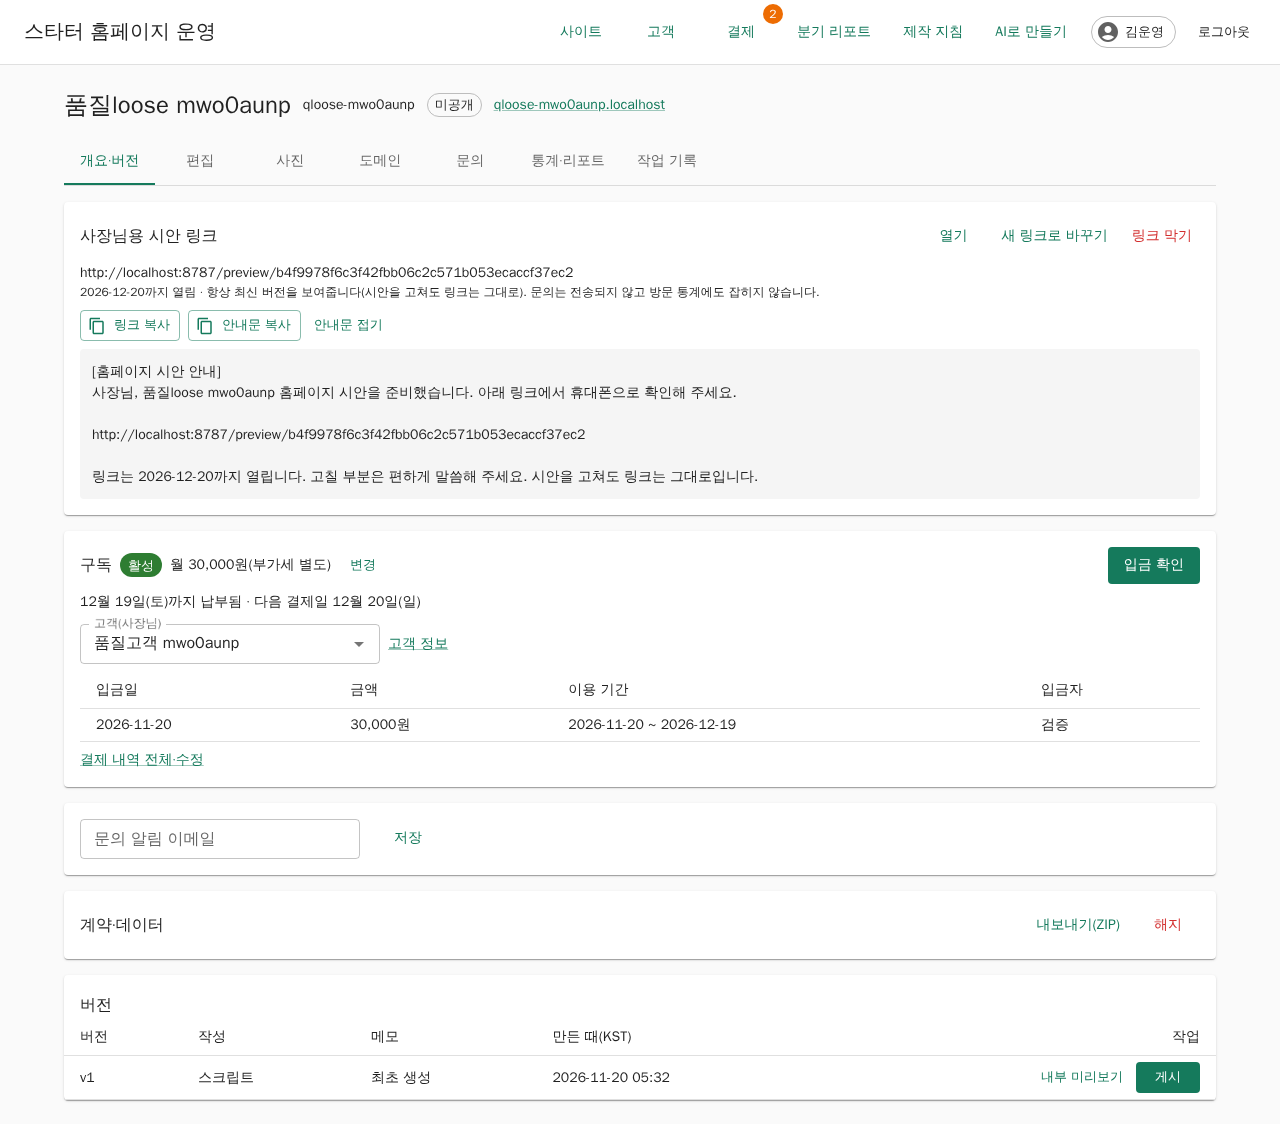
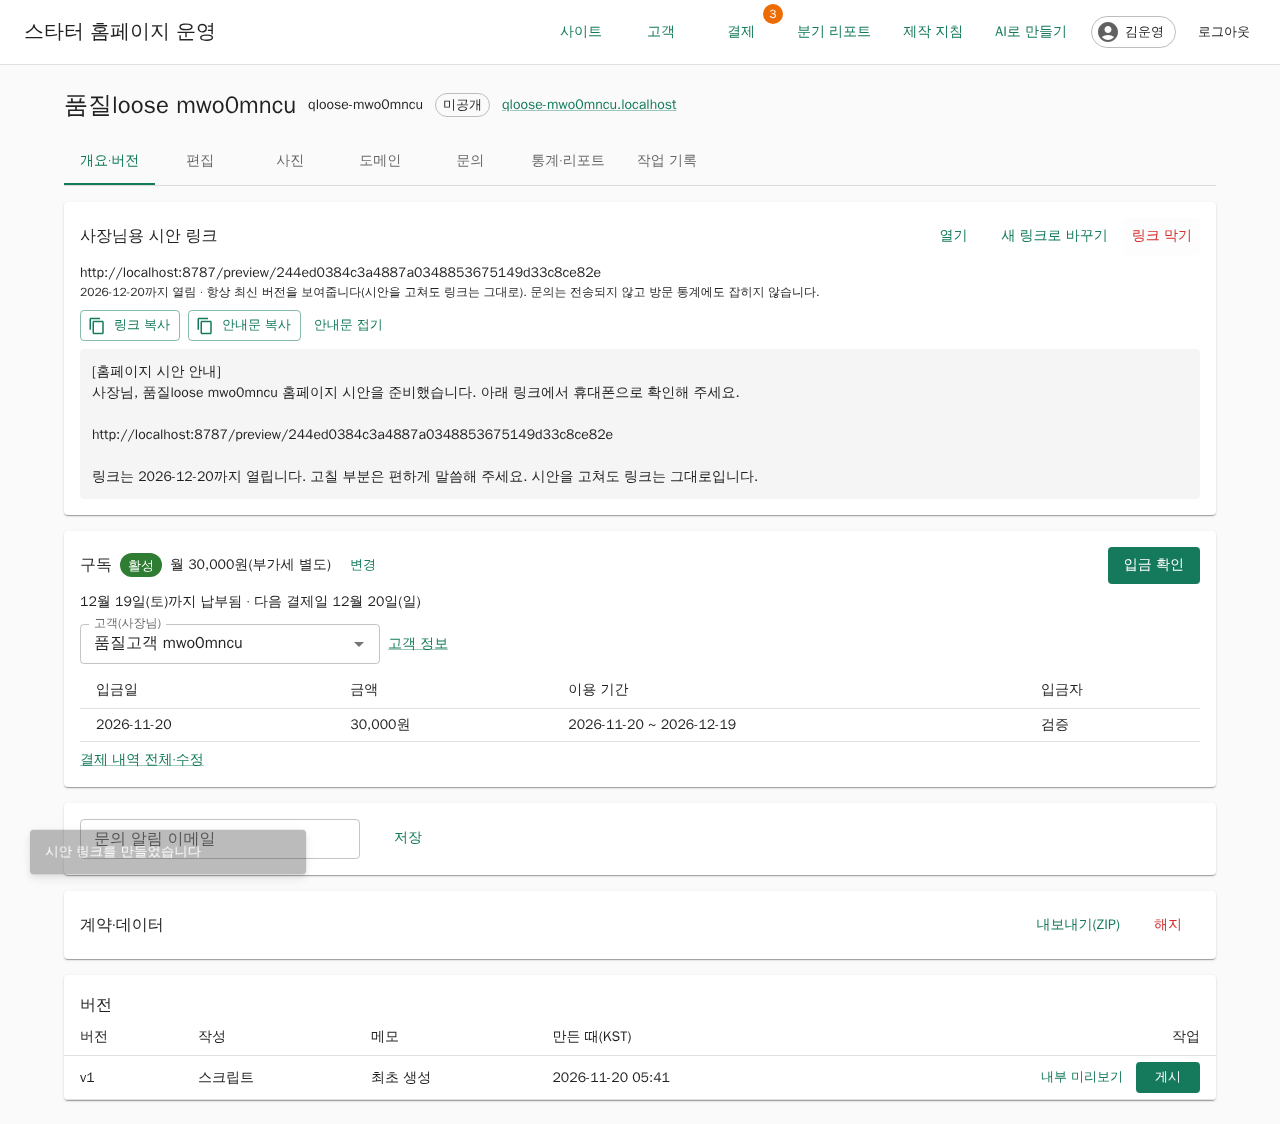
fix(console): today's list puts urgent work first; customer linking is housekeeping
Round 2 of the quality loop (evidence/m4-quality/po-round2.md): the product owner scored
4.75 again with every task done, so the loop stops with all targets met. Sites without a
customer move out of the day's count into a "정리할 것" strip; the demo seed's operator
suspension carries a reason like the console now requires.

Claude-Session: https://claude.ai/code/session_01Uc2o5SHdK7QwPtV2EwnCqy

diff --git a/apps/console/src/pages/TodayPanel.tsx b/apps/console/src/pages/TodayPanel.tsx
@@ -75,7 +75,9 @@ export function TodayPanel() {
   if (!today.data) return null;
   const { billing, manualSuspensions, domains, unlinked } = today.data;
   const drafts = today.data.drafts.filter((d) => d.draft !== "billed"); // billed drafts are under 결제
-  const total = billing.length + manualSuspensions.length + drafts.length + domains.length + unlinked.length;
+  // Sections run most urgent first (money and sites that are down, then what waits on the
+  // owner). Linking customers is housekeeping: listed below, not counted as today's work.
+  const total = billing.length + manualSuspensions.length + drafts.length + domains.length;
   return (
     <Stack spacing={1} data-testid="today">
       <Typography variant="h6" sx={{ fontWeight: 700 }}>
@@ -129,13 +131,18 @@ export function TodayPanel() {
               />
             </Section>
           ) : null}
-          {unlinked.length ? (
-            <Section title="고객 미연결" count={unlinked.length} testid="today-unlinked">
-              <List rows={unlinked} render={(row) => <Item key={row.id} site={row} note="연락할 사장님이 연결되지 않음" />} />
-            </Section>
-          ) : null}
         </Box>
       )}
+      {unlinked.length ? (
+        <Paper variant="outlined" sx={{ p: 1.5, bgcolor: "grey.50" }} data-testid="today-unlinked">
+          <Typography variant="body2" sx={{ fontWeight: 700, mb: 0.5 }}>
+            정리할 것 · 고객(사장님)이 연결되지 않은 사이트 {unlinked.length}곳
+          </Typography>
+          <Stack direction="row" spacing={1.5} useFlexGap sx={{ flexWrap: "wrap" }}>
+            <List rows={unlinked} render={(row) => <Item key={row.id} site={row} note="" />} />
+          </Stack>
+        </Paper>
+      ) : null}
     </Stack>
   );
 }

diff --git a/evidence/m4-quality/po-round2.md b/evidence/m4-quality/po-round2.md
@@ -1,0 +1,31 @@
+# 운영자 하루 업무 사용성 — 2회차 (프로덕트 오너 에이전트, 화면만 사용)
+
+모든 과제 성공, 평균 4.75 (기준선 4.4, 1회차 4.75). 막힘 없음. 스크린샷: `po-round2/`.
+
+| 과제 | 결과 | 클릭 | 점수 (1회차) | 이유 |
+|---|---|---|---|---|
+| T1 오늘 할 일 | 성공 | 0~1 | 4 (5) | 다 보이지만 카드끼리 급한 순서가 없고, 고객 미연결 같은 정리성 작업이 같은 무게로 세어짐 |
+| T2 노원 피아노 입금 | 성공 | 5 | 5 (4) | 이용 기간이 연체 기간에 이어 자동으로 잡힘. 알림에 납부 기간 |
+| T3 시안 안내문 | 성공 | 4 | 5 (5) | 안내문 보기·복사, 모바일 시안 띠 |
+| T4 첫 화면 제목 변경 | 성공 | 3 | 5 (5) | "시안 링크에도 바로 반영" 알림, 같은 링크에서 확인 |
+| T5 도메인 연결 | 성공 | 4 | 5 (5) | CNAME 표, 안내문(포워딩 포함), 첫 화면 "도메인 연결" 카드 |
+| T6 깔끔 사무실 청소 | 성공 | 1~2 | 5 (5) | "20일 연체로 공개 중단" |
+| T7 AI 도구 안내 | 성공 | 1 | 5 (5) | "AI로 만들기" 한 페이지에 주소·순서·예시 |
+| T8 입금 합계·김철수 | 성공 | 4 | 4 (4) | 합계는 바로 보임. 같은 연락처의 사이트 2곳이 고객에 연결돼 있지 않아 판단 필요(고객 화면에 연결 제안은 보임) |
+
+## 발견한 문제
+
+| 심각도 | 위치 | 문제 | 기대한 동작 |
+|---|---|---|---|
+| 불편 | 첫 화면 오늘 할 일 | 급한 순서 없음, 정리성 작업(고객 미연결)이 9건에 함께 세어짐 | 급한 일 먼저, 정리성 작업은 따로 |
+| 불편 | 고객 상세, 고객 미연결 카드 | 시드의 미연결 사이트 2곳. 첫 화면 카드엔 "같은 연락처 고객 있음" 힌트 없음 | 첫 화면에서도 연결 제안 |
+| 사소 | 운영자 공개 정지 | "사유 없음" | 정지할 때 사유 입력 |
+| 사소 | 시안 안내문 | 고객 미연결이면 보낼 연락처가 옆에 없음 | 받는 사람 연락처 표시 |
+| 사소 | 중단된 사이트 입금 요청 | 이용 기간이 오늘부터 잡혀 지난 기간과 이어지지 않음. 연체(노원)는 이어서 잡힘 | 규칙 안내(정책 여부 확인 못 함) |
+| 사소 | 입금 확인 알림 | 공개 상태는 말하지 않음 | "공개 유지 중" 함께 |
+
+## 처리 메모 (개발)
+- 루프 종료: 목표(성공 100%, 평균 4.5 이상)를 1·2회차 연속 넘김.
+- 반영: 오늘 할 일의 고객 미연결을 "정리할 것"으로 분리하고 할 일 수에서 뺌(섹션은 결제 → 운영자 정지 → 공개 전 → 도메인 순). 시드 데이터의 운영자 정지에 사유를 넣음. 콘솔 정지는 2회차부터 사유 필수였고, "사유 없음"은 API로 만든 시드 때문이었다.
+- 중단 뒤 이용 기간: 4-B 정책대로다. 연체(유예 중)는 지난 기간에 이어 잡고, 공개가 중단된 뒤에는 입금일부터 새 기간을 잡는다(비는 기간을 받지 않음). 화면 안내 문구는 PRD 요금제 미결 사항과 함께 정한다.
+- 시안 안내문 옆 연락처, 첫 화면 카드의 연결 제안: 사이트 개요의 고객 미연결 경고에 같은 연락처 고객 제안이 이미 있어 이번에는 두지 않음.

diff --git a/evidence/m4-quality/scorecard.md b/evidence/m4-quality/scorecard.md
@@ -8,12 +8,12 @@
 
 | 영역 | 지표 | 목표 | 기준선 | 1회차 | 2회차 |
 | --- | --- | --- | --- | --- | --- |
-| 운영자(콘솔) | 하루 업무 T1~T8 성공률, 평균 점수 | 100%, 4.5 이상 | 100%, 4.4 | 100%, 4.75 | |
+| 운영자(콘솔) | 하루 업무 T1~T8 성공률, 평균 점수 | 100%, 4.5 이상 | 100%, 4.4 | 100%, 4.75 | 100%, 4.75 |
 | 운영자(AI 제작) | 검증 통과 시안까지 시간·비용 | M2(3분 17초, $1.02)보다 나쁘지 않게 | 2분 33초, 17턴, $0.87 | (도구 변화 없음, 재측정 안 함) | (같음) |
 | 방문자(공개 사이트) | Lighthouse 모바일 성능 / 접근성 / SEO, LCP | 95 이상 / 100 / 95 이상, 2.0초 이하 | 레슨 99 / 100 / 92, 2.26초. 출장 99 / 100 / 92, 1.96초 | 레슨 100 / 100 / 100, 1.13초. 출장 100 / 100 / 100, 1.88초. 모범 사례 96 → 100 | (렌더러 변화 없음) |
 | 사장님(시안 링크) | Lighthouse 성능 / 접근성 (검색 차단이라 SEO 제외) | 95 이상 / 100 | 99 / 100, LCP 1.97초 | 99 / 100, LCP 2.04초 | (같음) |
-| 콘솔 성능 | 첫 화면 JS(gzip), 목록 표시 | 100KB 이하 → 기준선의 절반(180KB) 이하(아래 참고) | 361KB, 0.14초. 사이트 상세 369KB, 고객 상세 369KB | 179KB, 0.14초. 사이트 상세 237KB, 고객 상세 207KB | |
-| 서비스 품질 | verify-all | 전부 통과 | 454/454 (4-E 종료 시) | 481/481 | |
+| 콘솔 성능 | 첫 화면 JS(gzip), 목록 표시 | 100KB 이하 → 기준선의 절반(180KB) 이하(아래 참고) | 361KB, 0.14초. 사이트 상세 369KB, 고객 상세 369KB | 179KB, 0.14초. 사이트 상세 237KB, 고객 상세 207KB | 180KB(입금 요청 안내문 등) |
+| 서비스 품질 | verify-all | 전부 통과 | 454/454 (4-E 종료 시) | 481/481 | 488/488 |
 
 ## 기준선에서 찾은 것
 
@@ -63,3 +63,11 @@
 - 입금 확인 알림에 상호·납부 기간·재공개 여부.
 - 초안 저장 알림에 "사장님 시안 링크에도 바로 반영".
 - 부가세 표기는 PRD 미결이라 그대로 둠(`po-round1.md` 메모).
+
+## 결론
+
+목표를 모두 넘겨 루프를 마친다(1·2회차 연속 PO 4.75, 성공 100%). 2회차 PO 지적 중 오늘 할 일의 정렬·정리성 작업 분리는 반영했다. 시드의 정지 사유는 데이터 문제라 시드에 사유를 넣었다. 남은 지적은 `po-round2.md` 처리 메모에 판단과 함께 남겼다.
+
+남은 결정(사람이 정할 것):
+- 받을 금액의 부가세 표기(공급가 30,000원인지 33,000원인지): PRD 미결 사항.
+- 공개 중단 뒤 입금의 이용 기간 규칙(지금은 입금일부터)을 사장님 안내문에 어떻게 쓸지.
